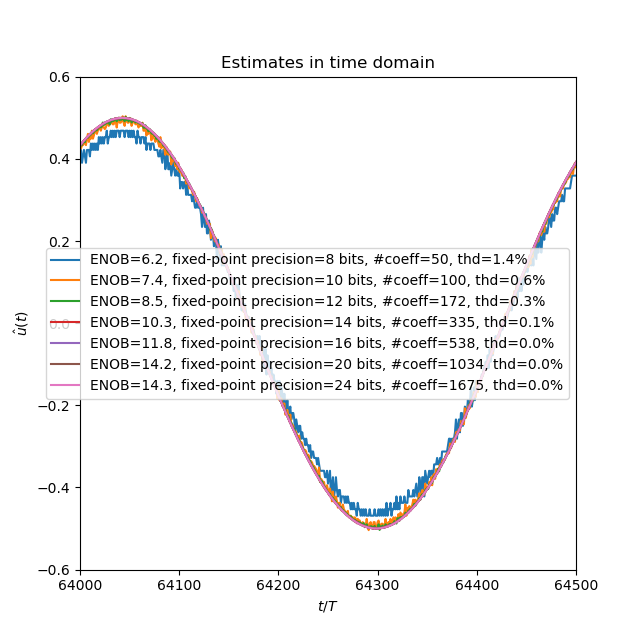
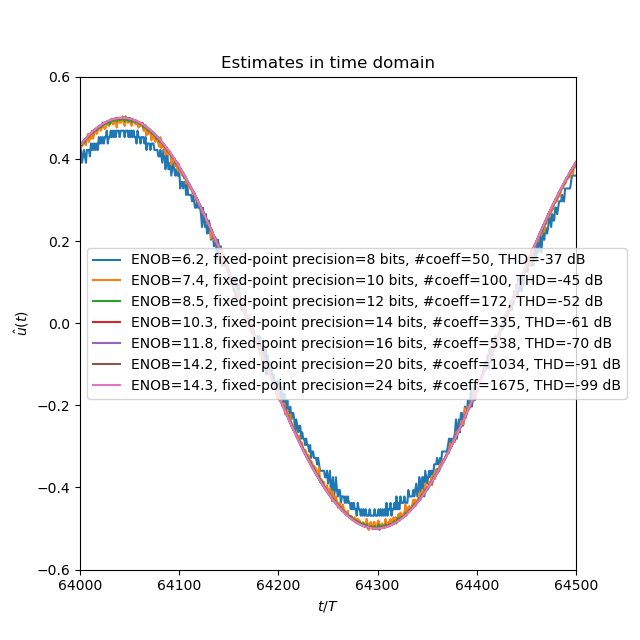
refinements to tutorial

Changed region(s): [[0.0625, 0.375, 0.9688, 0.625]]

diff --git a/docs/code_examples/b_general/plot_e_fixed_point_aritmetics.py b/docs/code_examples/b_general/plot_e_fixed_point_aritmetics.py
@@ -207,7 +207,7 @@ for index_de, bits in enumerate(fixed_point_precision):
     SNR = 10 * np.log10(res["snr"])
     ENOB = np.round((SNR - 1.76) / 6.02, 1)
     description.append(
-        f"ENOB={ENOB}, fixed-point precision={bits} bits, #coeff={digital_estimators[index_de].number_of_filter_coefficients()}, thd={round(res['thd']*100, 1)}%"
+        f"ENOB={ENOB}, fixed-point precision={bits} bits, #coeff={digital_estimators[index_de].number_of_filter_coefficients()}, THD={round(20 * np.log10(res['thd']))} dB"
     )
     # Plot the FIR filters
     plt.semilogx(f, 10 * np.log10(psd), label=description[-1])
@@ -245,7 +245,7 @@ res = cbadc.utilities.snr_spectrum_computation_extended(
 )
 SNR = 10 * np.log10(res["snr"])
 ENOB = np.round((SNR - 1.76) / 6.02, 1)
-description.append(f"Ref, ENOB={ENOB}")
+description.append(f"Ref, ENOB={ENOB}, THD={round(20 * np.log10(res['thd']))} dB")
 
 plt.semilogx(f_ref, 10 * np.log10(psd_ref), label=description[-1])
 

diff --git a/docs/source/tutorials/b_general/plot_e_fixed_point_aritmetics.py b/docs/source/tutorials/b_general/plot_e_fixed_point_aritmetics.py
@@ -207,7 +207,7 @@ for index_de, bits in enumerate(fixed_point_precision):
     SNR = 10 * np.log10(res["snr"])
     ENOB = np.round((SNR - 1.76) / 6.02, 1)
     description.append(
-        f"ENOB={ENOB}, fixed-point precision={bits} bits, #coeff={digital_estimators[index_de].number_of_filter_coefficients()}, thd={round(res['thd']*100, 1)}%"
+        f"ENOB={ENOB}, fixed-point precision={bits} bits, #coeff={digital_estimators[index_de].number_of_filter_coefficients()}, THD={round(20 * np.log10(res['thd']))} dB"
     )
     # Plot the FIR filters
     plt.semilogx(f, 10 * np.log10(psd), label=description[-1])
@@ -245,7 +245,7 @@ res = cbadc.utilities.snr_spectrum_computation_extended(
 )
 SNR = 10 * np.log10(res["snr"])
 ENOB = np.round((SNR - 1.76) / 6.02, 1)
-description.append(f"Ref, ENOB={ENOB}")
+description.append(f"Ref, ENOB={ENOB}, THD={round(20 * np.log10(res['thd']))} dB")
 
 plt.semilogx(f_ref, 10 * np.log10(psd_ref), label=description[-1])
 

diff --git a/docs/source/tutorials/b_general/plot_e_fixed_point_aritmetics.rst b/docs/source/tutorials/b_general/plot_e_fixed_point_aritmetics.rst
@@ -431,7 +431,7 @@ Resulting Estimate Precision
         SNR = 10 * np.log10(res["snr"])
         ENOB = np.round((SNR - 1.76) / 6.02, 1)
         description.append(
-            f"ENOB={ENOB}, fixed-point precision={bits} bits, #coeff={digital_estimators[index_de].number_of_filter_coefficients()}, thd={round(res['thd']*100, 1)}%"
+            f"ENOB={ENOB}, fixed-point precision={bits} bits, #coeff={digital_estimators[index_de].number_of_filter_coefficients()}, THD={round(20 * np.log10(res['thd']))} dB"
         )
         # Plot the FIR filters
         plt.semilogx(f, 10 * np.log10(psd), label=description[-1])
@@ -469,7 +469,7 @@ Resulting Estimate Precision
     )
     SNR = 10 * np.log10(res["snr"])
     ENOB = np.round((SNR - 1.76) / 6.02, 1)
-    description.append(f"Ref, ENOB={ENOB}")
+    description.append(f"Ref, ENOB={ENOB}, THD={round(20 * np.log10(res['thd']))} dB")
 
     plt.semilogx(f_ref, 10 * np.log10(psd_ref), label=description[-1])
 
@@ -518,7 +518,7 @@ Resulting Estimate Precision
 
 .. rst-class:: sphx-glr-timing
 
-   **Total running time of the script:** ( 1 minutes  39.459 seconds)
+   **Total running time of the script:** ( 1 minutes  40.118 seconds)
 
 
 .. _sphx_glr_download_tutorials_b_general_plot_e_fixed_point_aritmetics.py:

diff --git a/docs/source/tutorials/b_general/sg_execution_times.rst b/docs/source/tutorials/b_general/sg_execution_times.rst
@@ -5,10 +5,10 @@
 
 Computation times
 =================
-**01:39.459** total execution time for **tutorials_b_general** files:
+**01:40.118** total execution time for **tutorials_b_general** files:
 
 +-------------------------------------------------------------------------------------------------------------+-----------+--------+
-| :ref:`sphx_glr_tutorials_b_general_plot_e_fixed_point_aritmetics.py` (``plot_e_fixed_point_aritmetics.py``) | 01:39.459 | 0.0 MB |
+| :ref:`sphx_glr_tutorials_b_general_plot_e_fixed_point_aritmetics.py` (``plot_e_fixed_point_aritmetics.py``) | 01:40.118 | 0.0 MB |
 +-------------------------------------------------------------------------------------------------------------+-----------+--------+
 | :ref:`sphx_glr_tutorials_b_general_plot_a_compare_estimator.py` (``plot_a_compare_estimator.py``)           | 00:00.000 | 0.0 MB |
 +-------------------------------------------------------------------------------------------------------------+-----------+--------+
